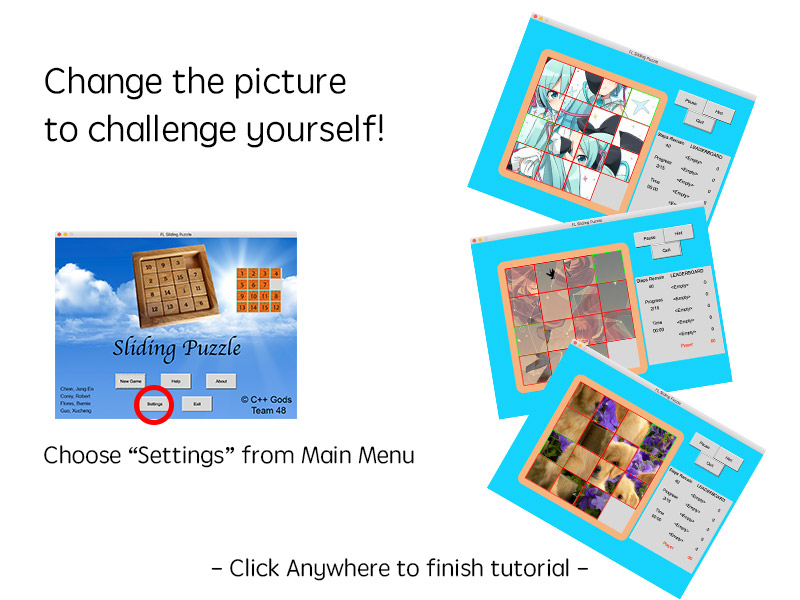
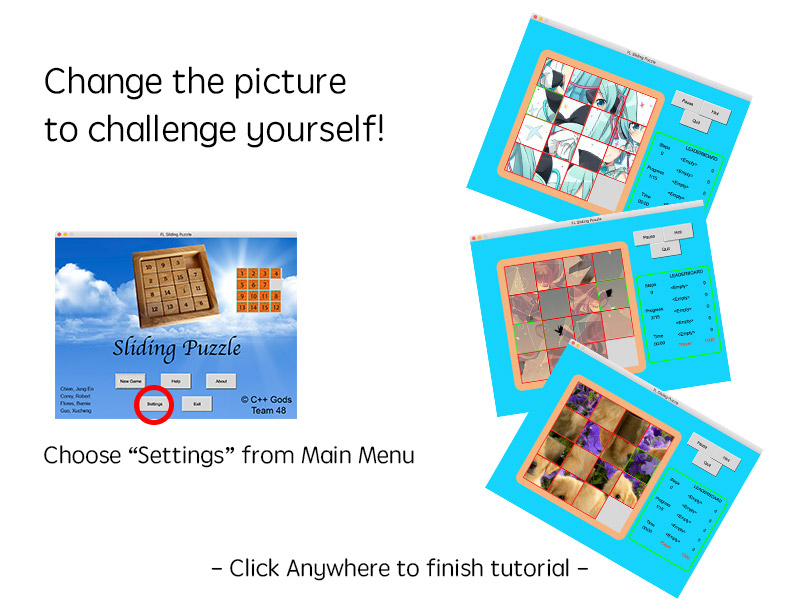
Update screenshots, put random puzzles except 40 moves

Changed region(s): [[0.5938, 0.09, 0.9688, 1.0], [0.6562, 0.03, 0.6875, 0.06], [0.625, 0.33, 0.6562, 0.36]]

diff --git a/src/preset.h b/src/preset.h
@@ -8,7 +8,10 @@ const vector<vector<int>> EASY = {
         5  , 6  , 12 , 7  ,
         9  , 10 , 0  , 15 ,
         13 , 14 , 8  , 11
-    }
+    },
+    {0, 2, 3, 4, 1, 5, 11, 7, 9, 6, 15, 8, 13, 10, 14, 12},
+    {1, 2, 3, 4, 5, 11, 10, 7, 9, 6, 8, 12, 13, 14, 15, 0},
+    {5, 1, 2, 4, 6, 3, 7, 0, 9, 10, 11, 8, 13, 14, 15, 12}
 };
 
 const vector<vector<int>> NORMAL = {
@@ -17,7 +20,10 @@ const vector<vector<int>> NORMAL = {
         5  , 0  , 2  , 11 ,
         9  , 10 , 14 , 7  ,
         13 , 15 , 12 , 8
-    }
+    },
+    {5, 1, 7, 3, 2, 6, 15, 11, 0, 9, 10, 4, 13, 14, 12, 8},
+    {1, 7, 0, 3, 5, 2, 6, 11, 9, 10, 15, 8, 13, 14, 4, 12},
+    {1, 6, 2, 7, 5, 11, 15, 3, 9, 10, 4, 8, 13, 0, 14, 12},
 };
 
 const vector<vector<int>> HARD = {
@@ -35,7 +41,10 @@ const vector<vector<int>> IMPOSSIBLE = {
         15 , 14 , 10 , 9 ,
         3  , 7  , 6  , 2 ,
         4  , 8  , 5  , 1
-    }
+    },
+    {0, 12, 9, 13, 15, 11, 10, 14, 3, 7, 2, 5, 4, 8, 6, 1},
+    {0, 12, 10, 13, 15, 11, 14, 9, 3, 7, 6, 2, 4, 8, 5, 1},
+    {0, 12, 9, 13, 15, 8, 10, 14, 11, 7, 6, 2, 4, 3, 5, 1}
 };
 
 const vector<int> DEMO = {
